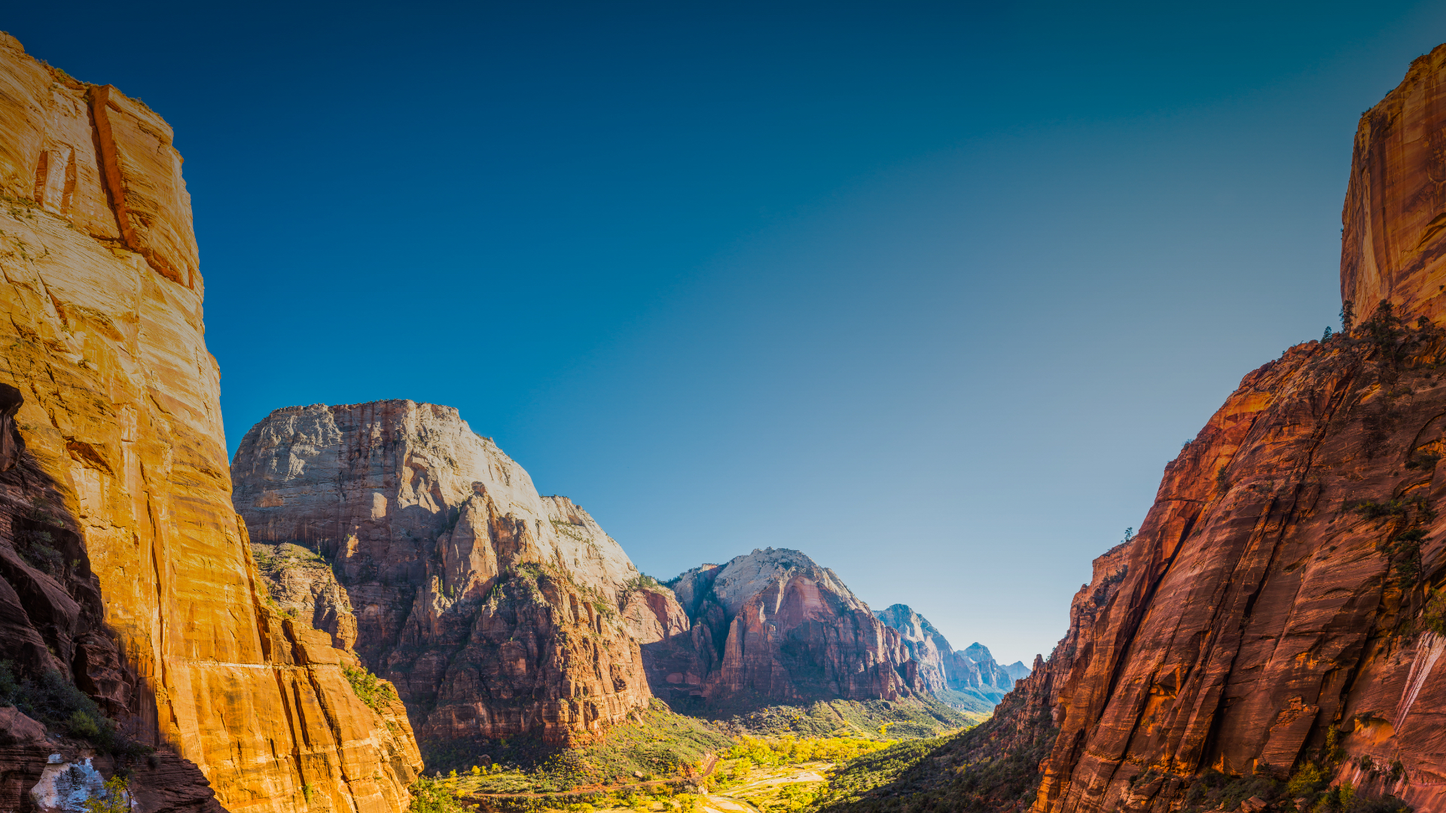
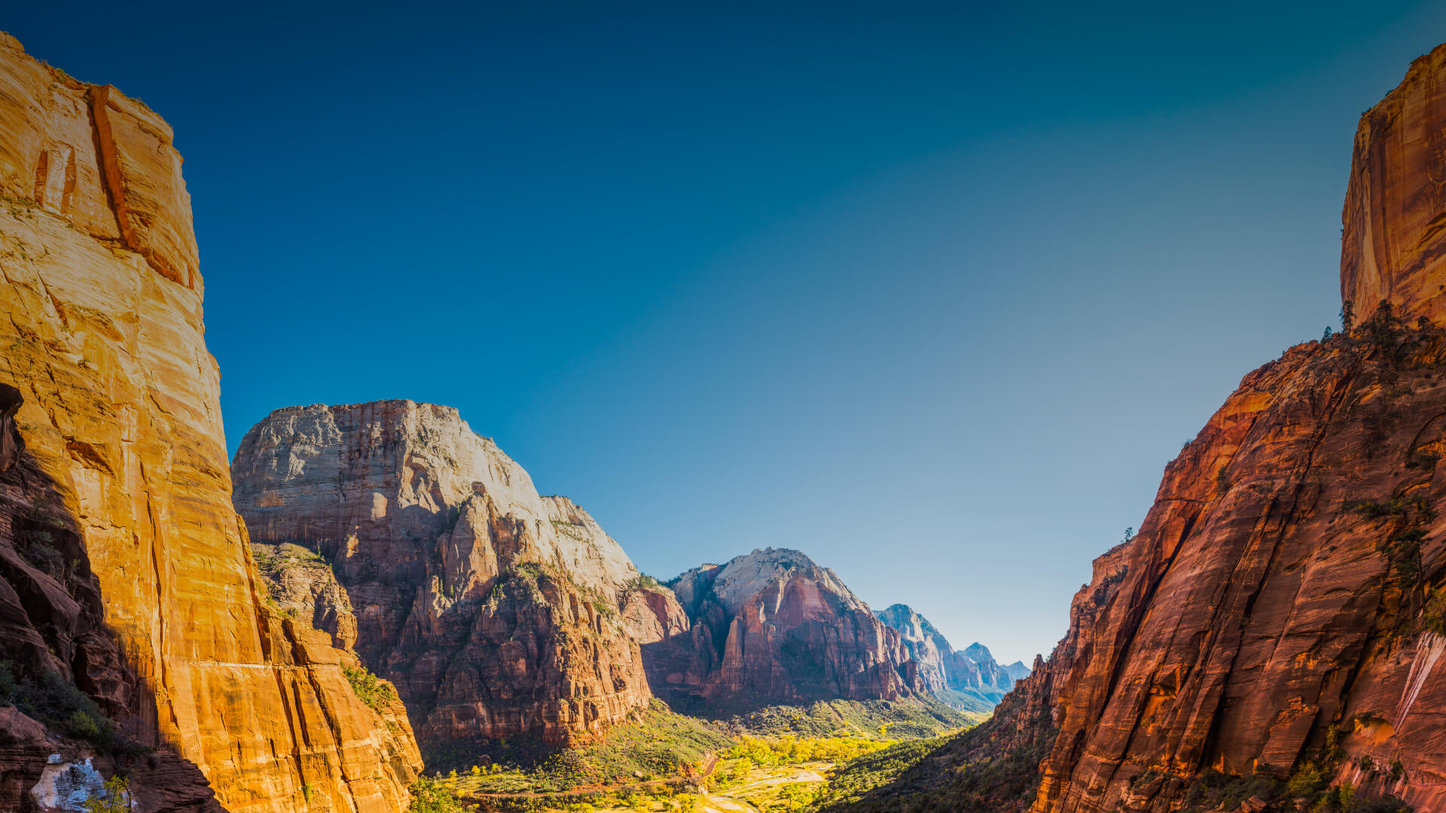
reduced hero image size to 300kb for faster load times

diff --git a/tPX/public/index.html b/tPX/public/index.html
@@ -367,31 +367,31 @@
                         <div class="modal-logo-container">
                                 <img src="../images/section-one-logo.png" alt="insight-outside-logo-contact-form">
                         </div>
-                        <div class="alert">Thank you your message has been sent</div>
+                        <div class="alert">Thank you your request has been sent</div>
                         <form id="contactForm">
-                            <p class="full">
-                              <label>Name</label>
-                              <input type="text" name="name" id="name" required>
-                            </p>
-                            <p class="full">
-                              <label>Company</label>
-                              <input type="text" name="company" id="company">
-                            </p>
-                            <p class="full">
-                              <label>Email</label>
-                              <input type="email" name="email" id="email" required>
-                            </p>
-                            <p class="full">
-                              <label>Why do you want to attend?</label>
-                              <textarea name="attend" id="attend" cols="" rows="5"></textarea>
-                            </p>
-                            <p class="full">
-                              <label>What are your questions?</label>
-                              <textarea name="questions" id="questions" cols="" rows="5"></textarea>
-                            </p>
-                            <p class="full">
-                                <button type="submit">Request Invite</button>
-                            </p>
+                                <p class="full">
+                                <label>Name</label>
+                                <input type="text" name="name" id="name" required autofocus>
+                                </p>
+                                <p class="full">
+                                <label>Company</label>
+                                <input type="text" name="company" id="company">
+                                </p>
+                                <p class="full">
+                                <label>Email</label>
+                                <input type="email" name="email" id="email" required>
+                                </p>
+                                <p class="full">
+                                <label>Why do you want to attend?</label>
+                                <textarea name="attend" id="attend" cols="1" rows="2"></textarea>
+                                </p>
+                                <p class="full">
+                                <label>What are your questions?</label>
+                                <textarea name="questions" id="questions" cols="1" rows="2"></textarea>
+                                </p>
+                                <p class="full">
+                                    <button type="submit">Request Invite</button>
+                                </p>
                         </form>
                     </div>
                 </div>

diff --git a/tPX/public/css/contact-form.css b/tPX/public/css/contact-form.css
@@ -1,6 +1,9 @@
 /***************************************
             contact-form.css
 ***************************************/
+	fieldset {
+		border: transparent;
+	}
 	.container-contact {
 	    max-width: 100%;
 		margin-left: auto;
@@ -128,6 +131,16 @@
 		width: 78%;
 	}
 
+	#contactForm input:focus { 
+		display: block;
+	}
+
+	#contactForm textarea:focus {
+		display: block;
+	}
+
+	
+
 	 @media only screen and (min-width: 525px) and (max-width: 798px) {
 		.modal-logo-container img {
 			height: auto;
@@ -153,7 +166,6 @@
 		.modal-logo-container {
 			height: 290px;
 			margin: 2% auto -17% auto;
-			display: block;
 			width: 50%;
 			padding-top: 10%;
 		}

diff --git a/tPX/public/css/modal.css b/tPX/public/css/modal.css
@@ -1,16 +1,20 @@
 /***************************************
                 modal.css
 ***************************************/
+body.modal-open {
+    position: fixed;
+}
+
 .modal {
     display: none;
     position: fixed;
-    z-index: 90000000000;
     left: 0;
     top: 0;
     height: 100%;
     width: 100%;
     overflow: auto;
     background-color: rgba(0,0,0,0.5);
+    z-index: 900000000000;
 }
 
 .modal-content {

diff --git a/tPX/public/css/style.css b/tPX/public/css/style.css
@@ -10,11 +10,10 @@ html, body {
     /* font-weight: 0; */
     line-height: 1.0em;
     color: #2f3b77;
+    -webkit-overflow-scrolling : touch !important;
 }
 
-body {
-    overflow-x: hidden;
-}
+
 
 h1, h2, h3, h4, .slider-wrap span {
     font-family: 'Montserrat', sans-serif;

diff --git a/tPX/public/css/navbar-mobile.css b/tPX/public/css/navbar-mobile.css
@@ -44,7 +44,7 @@
 	padding-left: 0;
 	width: 100%;
 	overflow: hidden;
-	margin-top: 4.1%;
+	margin-top: 3.7%;
   }
   
   
